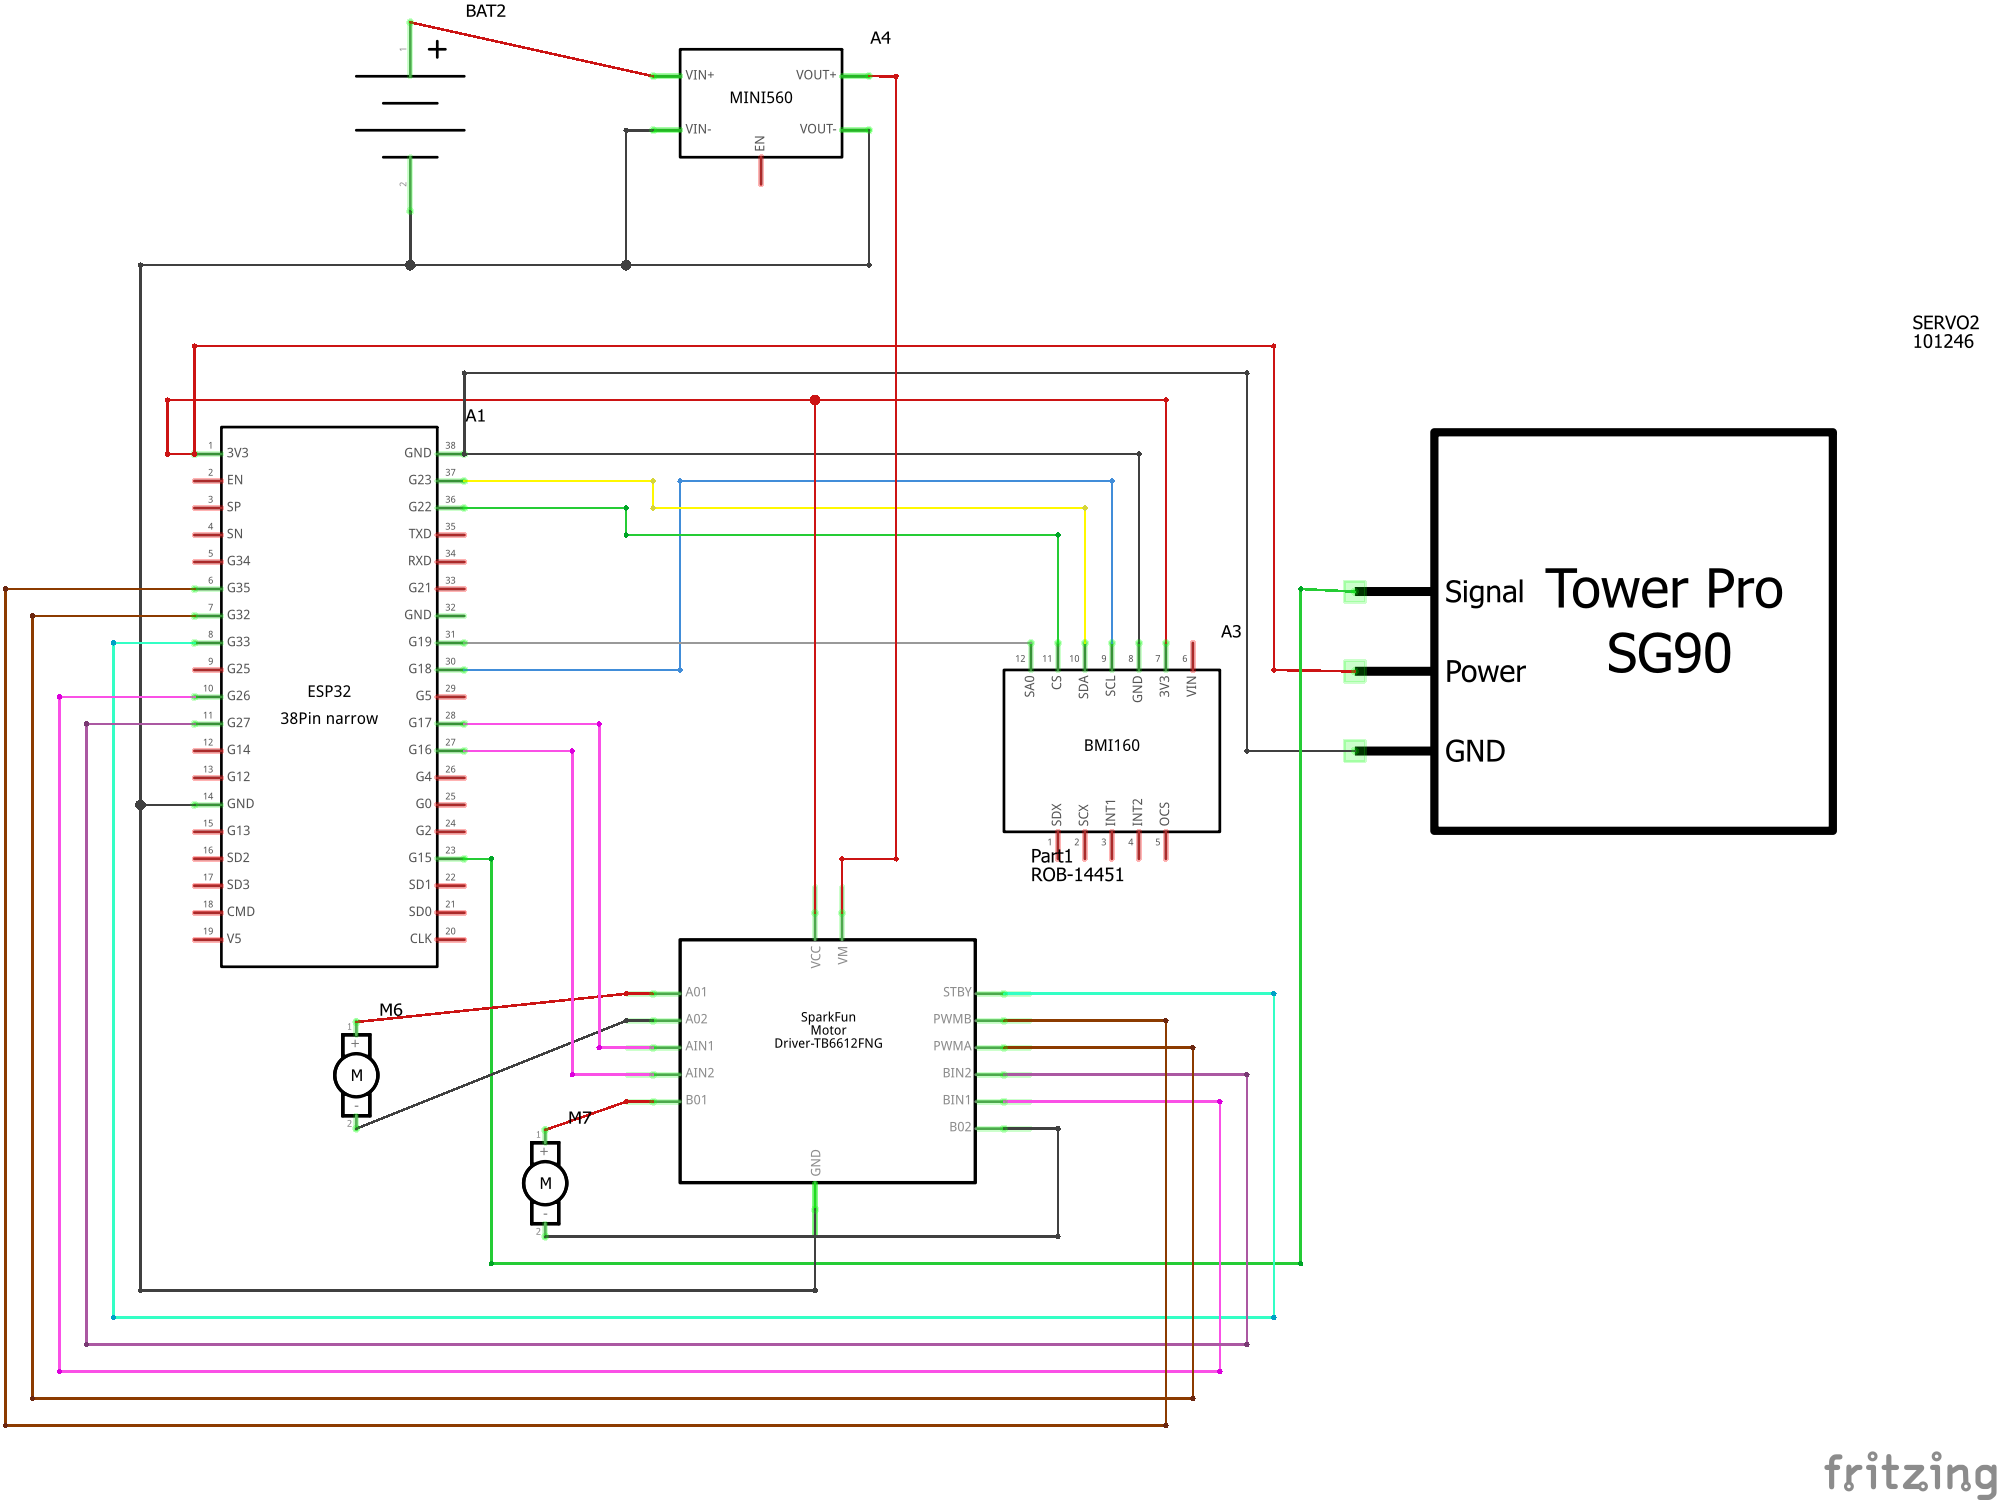
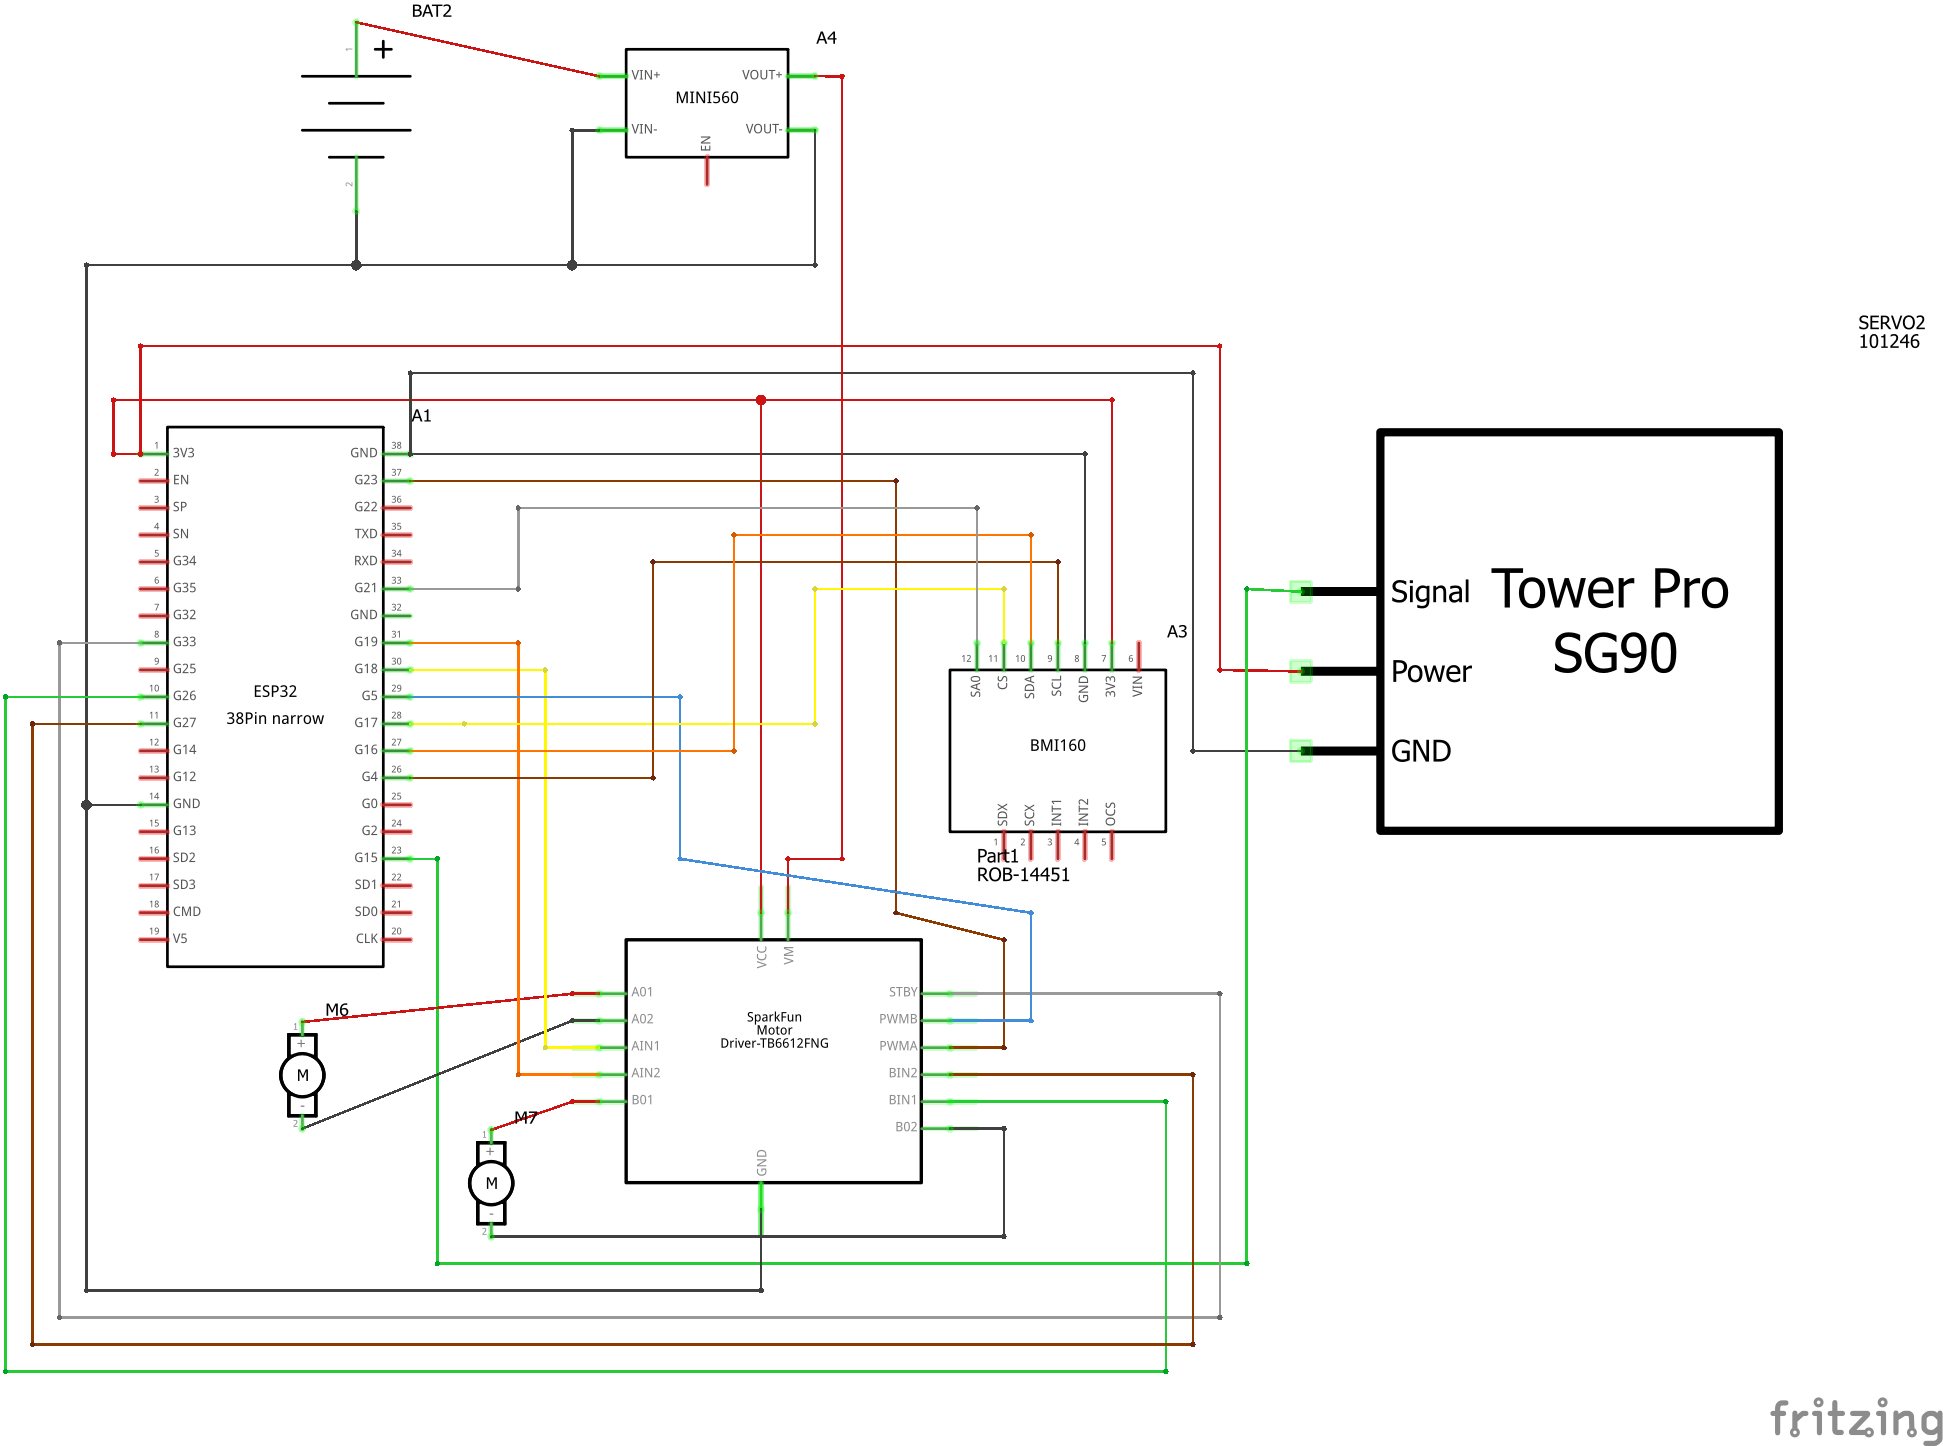
fixes main schema and code

diff --git a/src/main.cpp b/src/main.cpp
@@ -1,11 +1,38 @@
 #include <freertos/FreeRTOS.h>
 #include <freertos/task.h>
 #include <driver/gpio.h>
-#include <driver/adc.h>
+#include <driver/ledc.h>
 #include <esp_log.h>
+
+#include <MotorControl.h>
+#include <bmi160_wrapper.h>
 
 // Logger tag for ESP-IDF logging
 static const char * MAIN_TAG = "app_main";
+
+// motor pins
+constexpr gpio_num_t MOTOR_A_IN_1 = GPIO_NUM_18;
+constexpr gpio_num_t MOTOR_A_IN_2 = GPIO_NUM_19;
+constexpr gpio_num_t MOTOR_A_PWM = GPIO_NUM_23;
+
+constexpr gpio_num_t MOTOR_B_IN_1 = GPIO_NUM_26;
+constexpr gpio_num_t MOTOR_B_IN_2 = GPIO_NUM_27;
+constexpr gpio_num_t MOTOR_B_PWM = GPIO_NUM_5;
+
+constexpr gpio_num_t STBY = GPIO_NUM_33;
+
+constexpr ledc_mode_t LEDC_SPEED_MODE = LEDC_LOW_SPEED_MODE;
+
+MotorDefinition leftMotor;
+MotorDefinition rightMotor;
+PinGPIODefinition stby;
+
+// bmi pins
+Bmi160<Bmi160SpiConfig> imu;
+gpio_num_t mosi_pin = GPIO_NUM_16;
+gpio_num_t miso_pin = GPIO_NUM_21;
+gpio_num_t sclk_pin = GPIO_NUM_4;
+gpio_num_t cs_pin   = GPIO_NUM_17;
 
 extern "C" void app_main();
 
@@ -13,8 +40,58 @@ void app_main(void)
 {
     vTaskDelay(pdMS_TO_TICKS(1000));
 
-    for(;;)
+    // Configuring motors
+    leftMotor = MotorDefinition(MOTOR_A_IN_1, MOTOR_A_IN_2, 0, 1, MOTOR_A_PWM, LEDC_CHANNEL_0, LEDC_SPEED_MODE, LEDC_TIMER_0);
+    rightMotor = MotorDefinition(MOTOR_B_IN_1, MOTOR_B_IN_2, 1, 0, MOTOR_B_PWM, LEDC_CHANNEL_1, LEDC_SPEED_MODE, LEDC_TIMER_1);
+
+    stby = PinGPIODefinition(STBY, GPIO_MODE_OUTPUT, GPIO_PULLDOWN_DISABLE);
+
+    leftMotor.Configure();
+    rightMotor.Configure();
+    stby.Configure();
+
+    gpio_set_level(STBY, 1);
+
+    // Configuring bmi
+    Bmi160SpiConfig config = {
+        .spidev = SPI3_HOST,
+        .mosi = mosi_pin,
+        .miso = miso_pin,
+        .sclk = sclk_pin,
+        .cs   = cs_pin,
+        .speed= 4*1000*1000
+    };
+
+    if (imu.init(config) != BMI160_OK)
     {
-        vTaskDelay(pdMS_TO_TICKS(100)); // Reduced delay for more responsive readings
+        ESP_LOGE(MAIN_TAG, "Failed to initialize bmi160 device");
+    }
+    else
+    {
+        Bmi160Data accel_data, gyro_data;
+        for(;;)
+        {
+            // get bmi data
+            imu.getData(accel_data, gyro_data);
+
+            printf("Raw-Accl: %6d %6d %6d\n", accel_data.raw_data.x, accel_data.raw_data.y, accel_data.raw_data.z);
+            printf("Adj-Accl: %.2f %.2f %.2f\n", accel_data.adj_data.x, accel_data.adj_data.y, accel_data.adj_data.z);
+            printf("Raw-Gyro: %6d %6d %6d\n", gyro_data.raw_data.x, gyro_data.raw_data.y, gyro_data.raw_data.z);
+            printf("Adj-Gyro: %.2f %.2f %.2f\n", gyro_data.adj_data.x, gyro_data.adj_data.y, gyro_data.adj_data.z);
+
+            vTaskDelay(pdMS_TO_TICKS(1000));
+
+            leftMotor.Drive(100);
+            vTaskDelay(pdMS_TO_TICKS(200));
+            leftMotor.Stop();
+
+            vTaskDelay(pdMS_TO_TICKS(1000));
+
+            rightMotor.Drive(100);
+            vTaskDelay(pdMS_TO_TICKS(200));
+            rightMotor.Stop();
+            
+            vTaskDelay(pdMS_TO_TICKS(1000));
+        }
     }
 }
